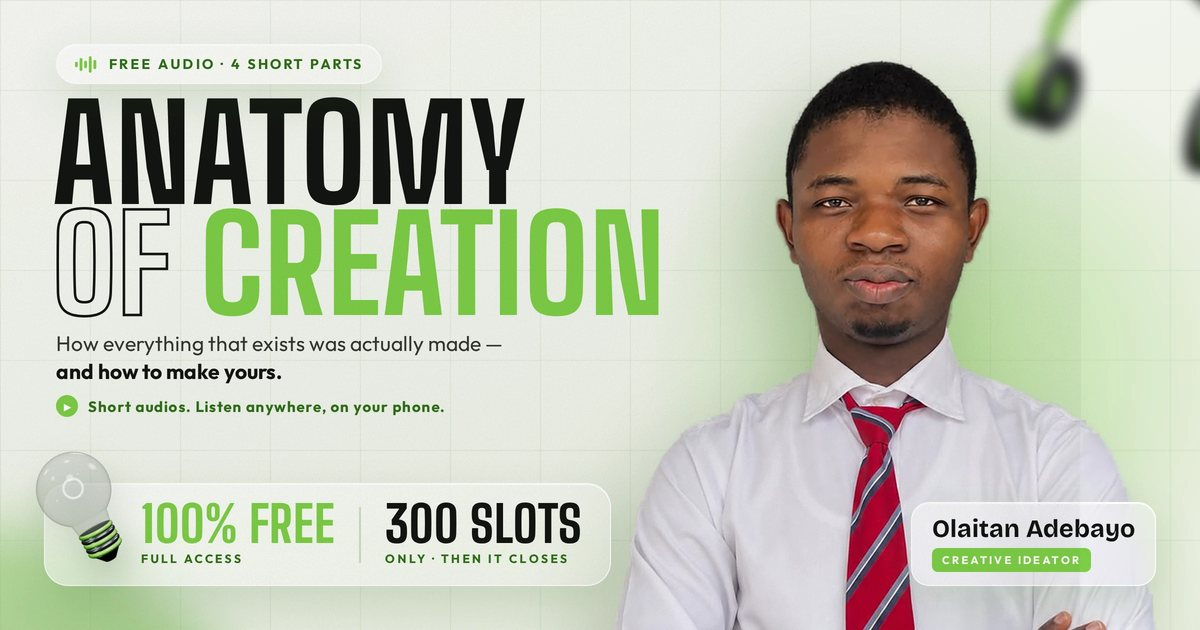
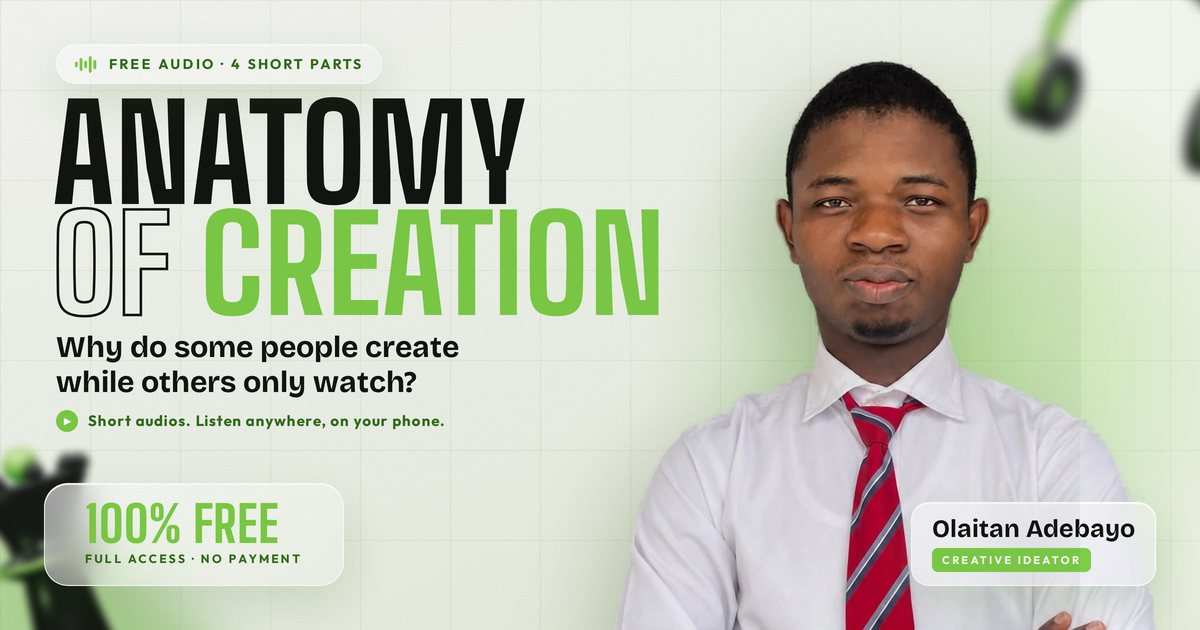
Anatomy of Creation: new flyer, 100 slots with stages, close/reopen sign-ups

diff --git a/components/AocCourse.jsx b/components/AocCourse.jsx
@@ -12,7 +12,14 @@ async function api(body) {
   const r = await fetch('/api/aoc', { method: 'POST', headers: { 'Content-Type': 'application/json' }, body: JSON.stringify(body) })
   const j = await r.json().catch(() => ({})); if (!r.ok) throw new Error(j.error || 'Something went wrong. Try again.'); return j
 }
-const playing = { el: null }                                            // one recording plays at a time
+const playing = { el: null }
+// the slots message for each stage (the count itself is never shown here)
+const SLOTS = {
+  open: (g) => ({ strong: `Only ${g} slots.`, rest: 'Get in before it closes.' }),
+  few: () => ({ strong: 'Join fast.', rest: 'Few spaces left.' }),
+  bonus: () => ({ strong: 'Bonus spots opened.', rest: 'Join while it’s open.' }),
+  closed: () => ({ strong: 'Sign-ups are closed for now.', rest: 'Message Olaitan to hear about the next one.' }),
+}                                            // one recording plays at a time
 const Mark = () => <span className="mk" aria-hidden="true"><span><b style={{ height: '40%' }} /><b style={{ height: '100%' }} /><b style={{ height: '65%' }} /><b style={{ height: '85%' }} /></span></span>
 
 function Player({ src, title, wave, onEvent }) {
@@ -59,6 +66,7 @@ export default function AocCourse({ data }) {
   const [name, setName] = useState(''), [tick, setTick] = useState(false), [busy, setBusy] = useState(false), [err, setErr] = useState('')
   const [fb, setFb] = useState(''), [sent, setSent] = useState(false), [fbErr, setFbErr] = useState(''), [partsOpen, setPartsOpen] = useState(false)
   const total = c.full && c.full.wave ? mins(c.full.wave.seconds) : 37
+  const stage = data.stage || 'open', slot = (SLOTS[stage] || SLOTS.open)(data.goal), closed = stage === 'closed'
 
   useEffect(() => {
     try { const s = JSON.parse(localStorage.getItem(KEY) || 'null'); if (s && s.token) setMe(s) } catch {}
@@ -108,8 +116,8 @@ export default function AocCourse({ data }) {
           {fbErr ? <p role="alert" className="err">{fbErr}</p> : null}
           <button type="submit" className="btn">Send</button></>}
       </form>
-    </div>) : data.closed ? (<div className="card acard">
-      <span className="eyebrow"><i />Slots</span><h3>All {data.goal} slots have been taken.</h3>
+    </div>) : closed ? (<div className="card acard">
+      <span className="eyebrow"><i />Sign-ups</span><h3>Sign-ups are closed for now.</h3>
       <p className="small left">Message Olaitan to hear first about the next free resource.</p>
       <a className="btn g wide" href="/me">Message Olaitan on WhatsApp</a>
     </div>) : (<form className="card acard" onSubmit={enter} aria-label="Get free access">
@@ -117,6 +125,7 @@ export default function AocCourse({ data }) {
       <label className="f">Your name<input type="text" value={name} onChange={(e) => setName(e.target.value)} required minLength={2} maxLength={60} autoComplete="name" placeholder="e.g. Ada Okafor" /></label>
       <label className="tick"><input type="checkbox" checked={tick} onChange={(e) => setTick(e.target.checked)} required /><span className="b" aria-hidden="true"><svg viewBox="0 0 16 16"><path d="M3 8.5l3.2 3L13 4.5" /></svg></span>After listening, I’ll share what I learned.</label>
       {err ? <p role="alert" className="err">{err}</p> : null}
+      {stage !== 'open' ? <p className={'urgent ' + stage}>{slot.strong} {slot.rest}</p> : null}
       <button type="submit" className="btn g wide" disabled={busy}>{busy ? 'Opening…' : 'Get access'}</button>
     </form>)
 
@@ -125,31 +134,35 @@ export default function AocCourse({ data }) {
     <header className="nav"><div className="wrap">
       <a className="brand" href="#top"><Mark />Anatomy of Creation</a>
       <nav className="links" aria-label="On this page"><a href="#get">What you’ll get</a><a href="#for">Who it’s for</a><a href="#about">About</a><a href="/">Main website ↗</a></nav>
-      <a className="btn" href="#access">{me ? 'Your course' : 'Get access'}</a>
+      <a className="btn" href="#access">{me ? 'Your course' : closed ? 'Next one' : 'Get access'}</a>
     </div></header>
 
     <main>
       <section className="hero"><div className="wrap">
-        <div>
-          <span className="eyebrow"><i />Free audio course · by Olaitan Adebayo</span>
-          <h1 className="title disp" aria-label={c.title}><span aria-hidden="true">ANATOMY</span><span aria-hidden="true"><span className="of">OF</span> <em>CREATION</em></span></h1>
-          <p className="lead"><b>{c.tagline} {c.taglineBold}</b></p>
-          <p className="sub2">{c.parts.length} short audios that show why some people create while others only watch, and how to step into creation yourself.</p>
-          <div className="proof"><span>🎧 100% free</span><span>⏱ {total} minutes</span><span>📱 Listen on your phone</span></div>
-          <div className="row"><a className="btn g" href="#access">{me ? 'Go to your course' : 'Get free access'}</a><a className="ghost" href="#get">What you’ll get ↓</a></div>
-          <p className="slots"><b>Only {data.goal} slots.</b> When it’s full, it closes.</p>
+        <h1 className="sr">{c.title}: {c.tagline} {c.taglineBold}</h1>
+        <div className="herogrid">
+          <picture className="card-img">
+            <source media="(min-width: 700px)" srcSet="/aoc/card-1600.webp" />
+            <img src="/aoc/card-900.webp" width="1600" height="840" alt="Anatomy of Creation, a free audio in 4 short parts by Olaitan Adebayo, creative ideator. 100% free, full access, no payment." fetchPriority="high" />
+          </picture>
+          <div className="hero-text">
+            <p className="lead">{c.tagline} <b>{c.taglineBold}</b></p>
+            <p className="sub2"><b>{c.title}</b> is a free audio in {c.parts.length} short parts that answers that question, and shows you how to step into creation yourself.</p>
+            <div className="proof"><span>🎧 100% free · no payment</span><span>⏱ {total} minutes</span><span>📱 Listen on your phone</span></div>
+          </div>
+          <div className="cta-box">
+            <p className="ctah">{me ? 'Your course is ready.' : closed ? 'Sign-ups are paused.' : 'Free access, today.'}</p>
+            <a className="btn g wide0" href="#access">{me ? 'Go to your course' : closed ? 'Hear about the next one' : 'Get free access'}</a>
+            <p className={'slots ' + stage}><b>{slot.strong}</b> {slot.rest}</p>
+            <a className="ghost" href="#get">What you’ll get ↓</a>
+          </div>
         </div>
-        <div className="photo"><img src="/aoc/photo.webp" alt="Olaitan Adebayo" width="1220" height="995" fetchPriority="high" /><div className="tag"><b>Olaitan Adebayo</b><span>CREATIVE IDEATOR</span></div></div>
-      </div></section>
-
-      <section className="look rv"><div className="wrap">
-        <p className="disp">Look around you.</p>
-        <p className="body">Everything you see was made by someone. Someone <b>noticed, thought, built,</b> and put it into the world.</p>
       </div></section>
 
       <section className="q"><div className="wrap rv">
-        <p className="disp">So why do some people <em>create</em>, while others only watch?</p>
-        <p className="after"><b>{c.title}</b> is a free audio in {c.parts.length} short parts that answers that question, and shows you how to step into creation yourself.</p>
+        <p className="disp">Look around <em>you.</em></p>
+        <p className="after">Everything you see was made by someone. Someone <b>noticed, thought, built,</b> and put it into the world.</p>
+        <p className="after">So why do some create, while others only watch? <b>{c.title}</b> answers that, and shows you how to step into creation yourself.</p>
       </div></section>
 
       <section className="s"><div className="wrap rv">
@@ -160,7 +173,7 @@ export default function AocCourse({ data }) {
 
       <section className="s" id="get" style={{ paddingTop: 0 }}><div className="wrap">
         <div className="rv"><span className="eyebrow"><i />What you’ll get</span><h2 className="disp">What you’ll walk away with</h2></div>
-        <ul className="gets">{(c.learn || []).map((t, i) => <li key={t} className="rv"><span className="n">{String(i + 1).padStart(2, '0')}</span><h3>{t}</h3></li>)}</ul>
+        <ul className="gets">{(c.learn || []).map((t, i) => <li key={t} className="rv"><span className="n">{String(i).padStart(2, '0')}</span><h3>{t}</h3></li>)}</ul>
       </div></section>
 
       <section className="s for" id="for"><div className="wrap rv">
@@ -171,17 +184,17 @@ export default function AocCourse({ data }) {
 
       <section className="s access" id="access"><div className="wrap">
         <div><span className="eyebrow"><i />Get access</span><h2 className="disp">Free. On your phone.</h2>
-          <div className="facts"><div><span className="e">🎧</span>100% free. Listen on your phone.</div><div><span className="e">⏳</span>Only {data.goal} slots. When it’s full, it closes.</div><div><span className="e">⬇</span>Download once, listen offline.</div></div></div>
+          <div className="facts"><div><span className="e">🎧</span>100% free. No payment. Listen on your phone.</div><div className={'stage ' + stage}><span className="e">⏳</span><span><b>{slot.strong}</b> {slot.rest}</span></div><div><span className="e">⬇</span>Download once, listen offline.</div></div></div>
         {accessCard}
       </div></section>
 
       <section className="s about" id="about" style={{ paddingTop: 0 }}><div className="wrap rv">
-        <div className="av"><img src="/aoc/photo.webp" alt="" width="1220" height="995" loading="lazy" /></div>
+        <div className="av"><img src="/aoc/avatar.webp" alt="" width="360" height="360" loading="lazy" /></div>
         <div><span className="eyebrow"><i />From Olaitan</span><h2 className="disp">Hi, I’m Olaitan Adebayo.</h2>
           <p>A creative ideator, builder and web developer. I read widely, think slowly and ship quickly. I made this audio for anyone who’s tired of only watching, and ready to make something real.</p></div>
       </div></section>
 
-      <section className="final"><div className="wrap rv"><p className="disp">Stop only watching. <em>Start creating.</em></p><a className="btn g" href="#access">{me ? 'Go to your course' : 'Get free access'}</a></div></section>
+      <section className="final"><div className="wrap rv"><p className="disp">Stop only watching. <em>Start creating.</em></p>{!me && !closed && stage !== 'open' ? <p className="fstage">{slot.strong} {slot.rest}</p> : null}<a className="btn g" href="#access">{me ? 'Go to your course' : closed ? 'Hear about the next one' : 'Get free access'}</a></div></section>
     </main>
 
     <footer className="foot"><div className="wrap">
@@ -210,22 +223,25 @@ html{scroll-behavior:smooth}html,body{background:#F1F3EE!important;color-scheme:
 .aoc .links{display:flex;gap:22px;margin-left:auto;font-weight:700;font-size:15px;color:var(--dim)}.aoc .links a{text-decoration:none}.aoc .links a:hover{color:var(--ink)}
 .aoc .nav .btn{padding:11px 18px;font-size:14px;white-space:nowrap}.aoc .brand{white-space:nowrap}@media(max-width:860px){.aoc .links{display:none}.aoc .nav .btn{margin-left:auto}}
 @media(max-width:420px){.aoc .nav .wrap{gap:12px}.aoc .brand{font-size:15px;gap:8px}.aoc .mk{width:26px;height:26px}.aoc .nav .btn{padding:10px 14px;font-size:13.5px}}
-/* hero */
-.aoc .hero{padding:clamp(28px,6vw,44px) 0 clamp(36px,6vw,70px)}.aoc .hero .wrap{display:grid;gap:30px;align-items:center}
-.aoc .title{font-size:clamp(58px,15.5vw,96px);margin:14px 0 0;line-height:.86}.aoc .title>span{display:block}.aoc .title em{font-style:normal;color:var(--green)}.aoc .title .of{color:transparent;-webkit-text-stroke:2px var(--ink)}
-.aoc .lead{font-size:clamp(20px,2.5vw,26px);line-height:1.3;max-width:28ch;margin:20px 0 0}.aoc .sub2{font-size:clamp(16px,1.9vw,18px);color:var(--dim);max-width:44ch;margin:12px 0 0}
-.aoc .proof{display:flex;flex-wrap:wrap;gap:8px;margin-top:20px}.aoc .proof span{padding:9px 14px;border-radius:999px;background:#fff;border:1px solid var(--line);font-weight:700;font-size:14.5px}
-.aoc .row{display:flex;flex-wrap:wrap;gap:14px;align-items:center;margin-top:26px}.aoc .ghost{font-weight:800;text-decoration:none;color:var(--deep);padding:12px 6px}
-.aoc .slots{margin:16px 0 0;font-size:15px;color:var(--dim)}.aoc .slots b{color:var(--ink)}
-.aoc .photo{position:relative;justify-self:center;width:min(100%,420px);aspect-ratio:1/1.05;border-radius:32px;background:radial-gradient(closest-side at 55% 55%,#bfe3a5,#dfeed4 70%,#e9f1e2);overflow:hidden}
-.aoc .photo img{position:absolute;bottom:0;left:50%;transform:translateX(-50%);width:108%;height:auto}
-.aoc .photo .tag{position:absolute;left:16px;bottom:16px;padding:12px 16px;border-radius:16px;background:#fff;box-shadow:0 14px 30px -18px rgba(18,21,16,.45)}.aoc .photo .tag b{display:block;font-size:17px}.aoc .photo .tag span{font-size:12.5px;font-weight:800;letter-spacing:.16em;color:var(--deep)}
-@media(min-width:900px){.aoc .hero .wrap{grid-template-columns:1.3fr .7fr}.aoc .title{font-size:clamp(76px,7.4vw,106px);white-space:nowrap}.aoc .photo{width:min(100%,400px)}}
-@media(max-width:520px){.aoc .hero .eyebrow{font-size:11px;letter-spacing:.14em}}
+/* hero: the landing card, then the opening */
+.aoc .sr{position:absolute;width:1px;height:1px;overflow:hidden;clip:rect(0 0 0 0);white-space:nowrap}
+.aoc .hero{padding:clamp(16px,3vw,28px) 0 clamp(36px,6vw,64px)}
+.aoc .card-img{display:block}.aoc .card-img img{display:block;width:100%;height:auto;border-radius:clamp(18px,2.6vw,30px);border:1px solid rgba(255,255,255,.9);box-shadow:0 30px 60px -38px rgba(18,21,16,.5);background:#e9efe3}
+.aoc .herogrid{display:grid;gap:clamp(20px,3vw,28px);grid-template-areas:"card" "text" "cta"}
+.aoc .card-img{grid-area:card}.aoc .hero-text{grid-area:text}.aoc .cta-box{grid-area:cta}
+@media(min-width:900px){.aoc .herogrid{grid-template-columns:minmax(0,1.6fr) minmax(280px,.72fr);grid-template-areas:"card cta" "text text";align-items:center;column-gap:28px}.aoc .hero-text{display:grid;grid-template-columns:1.1fr .9fr;gap:8px 40px;align-items:end}.aoc .hero-text .proof{grid-column:1/-1}.aoc .hero-text .sub2{margin:0}}
+.aoc .ctah{font-family:var(--font-hubot),system-ui;font-stretch:78%;font-weight:900;font-size:clamp(26px,2.6vw,32px);line-height:1;text-align:center}
+.aoc .lead{font-family:var(--font-hubot),system-ui;font-stretch:78%;font-weight:900;font-size:clamp(32px,5vw,52px);line-height:1;letter-spacing:-.01em}.aoc .lead b{color:var(--green);font-weight:900}
+.aoc .sub2{font-size:clamp(16px,1.9vw,19px);color:var(--dim);max-width:52ch;margin:14px 0 0}.aoc .sub2 b{color:var(--ink)}
+.aoc .proof{display:flex;flex-wrap:wrap;gap:8px;margin-top:18px}.aoc .proof span{padding:9px 14px;border-radius:999px;background:#fff;border:1px solid var(--line);font-weight:700;font-size:14.5px}
+.aoc .cta-box{display:grid;gap:12px;padding:clamp(18px,3vw,24px);border-radius:24px;background:#fff;border:1px solid var(--line);box-shadow:0 24px 50px -36px rgba(18,21,16,.45)}
+.aoc .wide0{width:100%;padding:18px}.aoc .ghost{justify-self:center;font-weight:800;text-decoration:none;color:var(--deep);padding:4px 6px}
+.aoc .slots{text-align:center;font-size:15.5px;color:var(--dim)}.aoc .slots b{color:var(--ink)}
+.aoc .slots.few b,.aoc .slots.bonus b{color:#B54708}.aoc .urgent{margin-top:16px;padding:12px 14px;border-radius:14px;background:#FFF4E5;color:#7A3E00;font-weight:700;font-size:15px}
+.aoc .facts .stage.few,.aoc .facts .stage.bonus{background:#FFF8EE;border-color:#F7D9AE}.aoc .fstage{margin-top:18px;color:#FFD08A;font-weight:700;font-size:17px}
 /* story */
-.aoc .look{padding:clamp(56px,8vw,96px) 0 0}.aoc .look p.disp{font-size:clamp(48px,8vw,96px)}.aoc .look .body{font-size:clamp(19px,2.4vw,24px);max-width:34ch;margin:16px 0 0;color:#2b3027}.aoc .look .body b{color:var(--ink)}
-.aoc .q{margin-top:clamp(44px,6vw,70px);background:var(--ink);color:#fff;padding:clamp(56px,9vw,110px) 0}.aoc .q p.disp{font-size:clamp(40px,7vw,84px);max-width:16ch}.aoc .q em{font-style:normal;color:var(--green)}
-.aoc .q .after{margin-top:26px;max-width:46ch;font-size:clamp(17px,2.2vw,20px);color:rgba(255,255,255,.78)}.aoc .q .after b{color:#fff}
+.aoc .q{background:var(--ink);color:#fff;padding:clamp(56px,9vw,110px) 0}.aoc .q p.disp{font-size:clamp(40px,7vw,84px);max-width:16ch}.aoc .q em{font-style:normal;color:var(--green)}
+.aoc .q .after{margin-top:22px;max-width:46ch;font-size:clamp(17px,2.2vw,20px);color:rgba(255,255,255,.78)}.aoc .q .after b{color:#fff}
 .aoc section.s{padding:clamp(56px,8vw,96px) 0}.aoc .s h2{font-size:clamp(40px,6vw,64px);margin:14px 0 0}.aoc .s .intro{font-size:18px;color:var(--dim);max-width:52ch;margin:14px 0 0}
 .aoc .parts{display:grid;gap:12px;margin-top:30px;grid-template-columns:repeat(2,1fr)}@media(min-width:760px){.aoc .parts{grid-template-columns:repeat(4,1fr)}}
 .aoc .parts div{padding:18px;border-radius:20px;background:var(--card);border:1px solid var(--line)}.aoc .parts b{display:block;font-family:var(--font-hubot),system-ui;font-stretch:78%;font-weight:900;font-size:30px}.aoc .parts span{font-size:14px;color:var(--dim)}

diff --git a/lib/site/aoc.js b/lib/site/aoc.js
@@ -11,9 +11,9 @@ const refresh = () => { try { revalidatePath('/aoc') } catch {} }   // the page 
 export class AocError extends Error {}
 const clean = (s, n) => String(s ?? '').replace(/<[^>]*>/g, '').replace(/[\u0000-\u001F\u007F<>]/g, '').replace(/\s+/g, ' ').trim().slice(0, n)
 export const DEFAULT_CONTENT = {
-  title: 'Anatomy of Creation', tagline: 'How everything that exists was actually made,', taglineBold: 'and how to make yours.',
+  title: 'Anatomy of Creation', tagline: 'Why do some people create', taglineBold: 'while others only watch?',
   intro: 'Short audios. Listen anywhere, on your phone.',
-  learn: ['The hidden strategy of creation: why some people create while others only watch', 'How to spot the ideas around you that are worth creating', 'How to start creating, even when you don’t feel ready', 'How to give your idea a body and turn it into a real creation', 'How to keep your creation alive and grow as a creator'],
+  learn: ['The hidden strategy behind every creation', 'How to spot ideas worth creating', 'How to start, even when you don’t feel ready', 'How to turn your idea into a real creation', 'How to keep your creation alive'],
   parts: [
     { key: 'part1', title: 'Part 1', covers: '00 · Why you were never meant to be a user\n01 · The Eye: where every creation begins', file: '/aoc/anatomy-of-creation-part-1.m4a' },
     { key: 'part2', title: 'Part 2', covers: '02 · The Question you can’t leave alone', file: '/aoc/anatomy-of-creation-part-2.m4a' },
@@ -37,27 +37,31 @@ export async function saveLink({ phone, message }) {
 }
 
 // ---------- the course ----------
-async function settings() { const s = await one('select goal, content, close_when_full from aoc_settings where id = 1'); return { goal: s ? s.goal : 300, close: s ? s.close_when_full : true, content: s && s.content && s.content.parts ? s.content : DEFAULT_CONTENT } }
+async function settings() { const s = await one('select goal, content, accepting from aoc_settings where id = 1'); return { goal: s ? s.goal : 100, accepting: s ? s.accepting : true, content: s && s.content && s.content.parts ? s.content : DEFAULT_CONTENT } }
+// What the page says about slots: "Only 100 slots" → from 60 joins (60%) "Join fast. Few spaces left." → after 100 "Bonus spots opened".
+// It never closes by itself; only the admin's Close sign-ups switch closes it.
+export const fewFrom = (goal) => Math.max(1, Math.round(goal * 0.6))
+export function slotStage(joined, goal, accepting) { return !accepting ? 'closed' : joined >= goal ? 'bonus' : joined >= fewFrom(goal) ? 'few' : 'open' }
 export async function publicCourse() {             // the course, and whether it's closed; the count itself is shown only in the admin
   let s, n
   try { s = await settings(); n = await one('select count(*)::int n from aoc_listeners') }
-  catch (e) { console.error('aoc page data', e.message); s = { content: DEFAULT_CONTENT, goal: 300, close: true }; n = { n: 0 } }   // never a broken page
+  catch (e) { console.error('aoc page data', e.message); s = { content: DEFAULT_CONTENT, goal: 100, accepting: true }; n = { n: 0 } }   // never a broken page
   const wave = (f) => AOC_WAVES[f] || null                                       // the player draws the real waveform when it's known
   const content = { ...s.content, parts: s.content.parts.map((p) => ({ ...p, wave: wave(p.file) })), full: s.content.full ? { ...s.content.full, wave: wave(s.content.full.file) } : null }
-  return { content, closed: s.close && n.n >= s.goal, goal: s.goal }
+  return { content, stage: slotStage(n.n, s.goal, s.accepting), goal: s.goal }
 }
 export async function join({ name, consent }, ip) {
   const nm = clean(name, 60)
   if (nm.length < 2) throw new AocError('Please enter your name.')
   if (consent !== true) throw new AocError('Please tick the box to continue.')
   const s = await settings(), n = await one('select count(*)::int n from aoc_listeners')
-  if (s.close && n.n >= s.goal) throw new AocError(`All ${s.goal} slots have been taken.`)
+  if (!s.accepting) throw new AocError('Sign-ups are closed for now. Message Olaitan to hear about the next one.')
   const ipHash = createHash('sha256').update('aoc:' + ip + ':' + (process.env.AUTH_SECRET || '')).digest('hex')
   const r = await one("select count(*) filter (where created_at > now() - interval '1 hour')::int h from aoc_listeners where ip_hash = $1", [ipHash])
   if (r && r.h >= 20) throw new AocError('Too many sign-ups from this connection. Try again in an hour.')
   const token = randomBytes(18).toString('base64url')
   await q('insert into aoc_listeners (token, name, ip_hash) values ($1, $2, $3)', [token, nm, ipHash])
-  if (s.close && n.n + 1 >= s.goal) refresh()                                   // that was the last slot: the page shows "closed" now
+  if (n.n + 1 === fewFrom(s.goal) || n.n + 1 === s.goal) refresh()            // the slots message changes now (few spaces left / bonus spots)
   return { token, name: nm }
 }
 export async function track({ token, part, event }) {
@@ -82,7 +86,7 @@ export async function adminData() {
   const link = await one("select phone, message, clicks, updated_at from site_links where slug = 'me'")
   const days = (await q("select to_char(day, 'YYYY-MM-DD') as day, n from site_link_clicks where slug = 'me' and day > (now() at time zone 'Africa/Lagos')::date - 14 order by day")).rows
   const people = (await q('select id, name, progress, feedback, feedback_at, created_at, last_seen from aoc_listeners order by created_at desc limit 1000')).rows
-  return { link, days, goal: s.goal, close: s.close, content: s.content, people: people.map((p) => ({ ...p, created_at: p.created_at.toISOString(), last_seen: p.last_seen.toISOString(), feedback_at: p.feedback_at && p.feedback_at.toISOString() })) }
+  return { link, days, goal: s.goal, accepting: s.accepting, fewFrom: fewFrom(s.goal), content: s.content, people: people.map((p) => ({ ...p, created_at: p.created_at.toISOString(), last_seen: p.last_seen.toISOString(), feedback_at: p.feedback_at && p.feedback_at.toISOString() })) }
 }
 export async function saveContent(c) {
   const parts = (Array.isArray(c.parts) ? c.parts : []).slice(0, 20).map((p, i) => ({ key: clean(p.key, 20).replace(/[^a-z0-9-]/gi, '') || 'p' + i, title: clean(p.title, 90), file: clean(p.file, 300),
@@ -95,8 +99,11 @@ export async function saveContent(c) {
   const content = { title: clean(c.title, 80) || 'Anatomy of Creation', tagline: clean(c.tagline, 140), taglineBold: clean(c.taglineBold, 80), intro: clean(c.intro, 300), learn, parts,
     full: c.full && clean(c.full.file, 300) ? { title: clean(c.full.title, 80) || 'Full course', file: clean(c.full.file, 300), note: clean(c.full.note, 120) } : null,
     map: c.map && clean(c.map.file, 300) ? { title: clean(c.map.title, 80) || 'Download', file: clean(c.map.file, 300) } : null }
-  const goal = Math.max(1, Math.min(100000, Number(c.goal) || 300))
-  await q('update aoc_settings set content = $1, goal = $2, close_when_full = $3 where id = 1', [JSON.stringify(content), goal, c.close !== false])
+  const goal = Math.max(1, Math.min(100000, Number(c.goal) || 100))
+  await q('update aoc_settings set content = $1, goal = $2 where id = 1', [JSON.stringify(content), goal])
   refresh(); return { ok: true }
+}
+export async function setAccepting(on) {
+  await q('update aoc_settings set accepting = $1 where id = 1', [on === true]); refresh(); return { accepting: on === true }
 }
 export async function removeListener(id) { await q('delete from aoc_listeners where id = $1', [Number(id)]); refresh(); return { ok: true } }

diff --git a/components/admin/AdminAoc.jsx b/components/admin/AdminAoc.jsx
@@ -13,7 +13,7 @@ const when = (d) => new Date(d).toLocaleString('en-GB', { day: 'numeric', month:
 export default function AdminAoc({ data }) {
   const router = useRouter(), [busy, setBusy] = useState(''), [err, setErr] = useState('')
   const [phone, setPhone] = useState(data.link ? data.link.phone : ''), [msg, setMsg] = useState(data.link ? data.link.message : '')
-  const [c, setC] = useState({ ...data.content, goal: data.goal, close: data.close, learn: (data.content.learn || []).join('\n') }), [show, setShow] = useState(null)
+  const [c, setC] = useState({ ...data.content, goal: data.goal, learn: (data.content.learn || []).join('\n') }), [show, setShow] = useState(null)
   async function call(body, ok) {
     setBusy(body.action); setErr('')
     try {
@@ -57,6 +57,12 @@ export default function AdminAoc({ data }) {
         <div style={{ display: 'flex', gap: 8 }}><button className="btn btn-line" onClick={() => { navigator.clipboard.writeText('https://olexweb.com/aoc'); toast('Course link copied.') }}>Copy course link</button>
           {people.length ? <button className="btn btn-line" onClick={csv}>Export (CSV)</button> : null}</div>
       </div>
+      {(() => { const n = people.length, st = !data.accepting ? 'closed' : n >= data.goal ? 'bonus' : n >= data.fewFrom ? 'few' : 'open'
+        const say = { open: `“Only ${data.goal} slots. Get in before it closes.”`, few: '“Join fast. Few spaces left.”', bonus: '“Bonus spots opened. Join while it’s open.”', closed: '“Sign-ups are closed for now.”' }[st]
+        return <div style={{ display: 'flex', gap: 12, alignItems: 'center', flexWrap: 'wrap', margin: '14px 0 0', padding: 14, borderRadius: 16, border: '1px solid var(--line)', background: st === 'closed' ? 'rgba(255,120,120,.08)' : st === 'open' ? 'transparent' : 'rgba(255,190,90,.08)' }}>
+          <span style={{ fontSize: 14.5 }}>Visitors see: <b>{say}</b></span>
+          <button className={data.accepting ? 'btn btn-line' : 'btn btn-green'} style={{ marginLeft: 'auto' }} disabled={!!busy} onClick={() => { if (!data.accepting || window.confirm('Close sign-ups? New visitors will see “Sign-ups are closed for now”. People who joined keep their access.')) call({ action: 'accepting', on: !data.accepting }, data.accepting ? 'Sign-ups closed.' : 'Sign-ups reopened.') }}>{busy === 'accepting' ? 'Saving…' : data.accepting ? 'Close sign-ups' : 'Reopen sign-ups'}</button>
+        </div> })()}
       <div style={{ display: 'grid', gridTemplateColumns: 'repeat(auto-fit, minmax(150px, 1fr))', gap: 10, margin: '14px 0' }}>
         {[['Joined', `${people.length} of ${data.goal}`], ['Finished all', finished], ['Shared what they learned', people.filter((p) => p.feedback).length]].map(([k, v]) => <div key={k} style={{ padding: 14, borderRadius: 16, border: '1px solid var(--line)' }}><div style={{ fontSize: 13, ...dim }}>{k}</div><b className="d" style={{ fontSize: 28 }}>{v}</b></div>)}
       </div>
@@ -82,7 +88,7 @@ export default function AdminAoc({ data }) {
         <label style={{ display: 'grid', gap: 6, fontSize: 14 }}>What you’ll get (one per line; numbered 00, 01… on the page)<textarea className="input" rows={5} value={c.learn} onChange={(e) => setC({ ...c, learn: e.target.value })} /></label>
         <div style={{ display: 'flex', gap: 16, alignItems: 'center', flexWrap: 'wrap' }}>
           <label style={{ display: 'grid', gap: 6, fontSize: 14, maxWidth: 200 }}>Slots<input className="input" type="number" min={1} value={c.goal} onChange={(e) => setC({ ...c, goal: e.target.value })} /></label>
-          <label style={{ display: 'flex', gap: 8, alignItems: 'center', fontSize: 14 }}><input type="checkbox" checked={c.close !== false} onChange={(e) => setC({ ...c, close: e.target.checked })} style={{ width: 18, height: 18, accentColor: 'var(--green)' }} />Close when the slots are full (the flyer says “then it closes”)</label>
+          <span style={{ fontSize: 13.5, ...dim }}>“Few spaces left” shows from {Math.max(1, Math.round((Number(c.goal) || 100) * 0.6))} joins; “Bonus spots opened” after {Number(c.goal) || 100}. It never closes by itself.</span>
         </div>
         <b style={{ fontSize: 14, marginTop: 6 }}>Recordings, in order</b>
         {parts.map((p, i) => <div key={i} style={{ display: 'grid', gap: 8, padding: 12, borderRadius: 14, border: '1px solid var(--line)' }}>

diff --git a/app/admin/api/aoc/route.js b/app/admin/api/aoc/route.js
@@ -2,7 +2,7 @@
 import { currentUser, sameOrigin, ownerOnly } from '@/lib/admin/auth'
 import { respond, refuse, readJson } from '@/lib/admin/respond'
 import { Refused } from '@/lib/admin/content'
-import { saveLink, saveContent, removeListener, AocError } from '@/lib/site/aoc'
+import { saveLink, saveContent, removeListener, setAccepting, AocError } from '@/lib/site/aoc'
 export const dynamic = 'force-dynamic'
 export async function POST(request) {
   if (!sameOrigin(request)) return refuse('Request refused.', 403)
@@ -13,6 +13,7 @@ export async function POST(request) {
     try {
       if (b.action === 'save-link') return await saveLink(b)
       if (b.action === 'save-content') return await saveContent(b.content || {})
+      if (b.action === 'accepting') return await setAccepting(b.on)
       if (b.action === 'remove') { if (!Number.isInteger(b.id)) throw new AocError('Request refused.'); return await removeListener(b.id) }
       throw new AocError('Unknown action.')
     } catch (e) { if (e instanceof AocError) throw new Refused(e.message); throw e }

diff --git a/CONTINUE.md b/CONTINUE.md
@@ -124,7 +124,10 @@ Last updated: 24 October 2026.
   `olexweb.com/aoc`: name + "After listening, I'll share what I learned" tick, then every recording with play and
   download (nothing locked, by his choice), plus the Creation Map and "What did you learn?". Admin shows joined
   "x of 300", what each person played, downloaded or finished, their feedback, CSV export, editable content.
-  Landing page rebuilt from his own copy (approved as a full-page preview first): opening states the offer (title, promise, free · 37 min · phone, Get free access, only 300 slots), then "Look around you" story, the question, the 4 parts, 5 points, who it's for, access card (name + tick → course with full-course download, waveform player, part by part, feedback), about, final call; its own header ("Main website ↗") and footer (one olexweb.com link). Visible by default (fade-up only below the fold, 2.5 s safety net); pre-built, refreshed every minute and at once when full or edited. Tests: fH.mjs (37), vis.mjs (30 on-screen checks, phone + laptop), perf.mjs. LESSON: always test that key parts are visible on screen, and show a preview before coding. Main button: the full course as one MP3; "Or part by part" below. Styled after his flyer (AOC-Flyer-Final.png; the landing card is the hero). Audio (AAC 64k, levelled, from transcripts: Part 1 = lessons 00+01, Parts 2–4 = 02, 03, 04): `public/aoc/anatomy-of-creation-part-1..4.m4a` + `anatomy-of-creation-full-course.m4a`. "Close when the slots are full" switch (default on, as the flyer promises). (from his WhatsApp recordings, levelled to −16 LUFS, 96k MP3). The count shows only in the admin. Files: `lib/site/aoc.js`, `app/me`, `app/aoc`, `components/AocCourse.jsx`,
+  Landing page rebuilt from his own copy (approved as a full-page preview first): opening states the offer (title, promise, free · 37 min · phone, Get free access, only 300 slots), then "Look around you" story, the question, the 4 parts, 5 points, who it's for, access card (name + tick → course with full-course download, waveform player, part by part, feedback), about, final call; its own header ("Main website ↗") and footer (one olexweb.com link). Visible by default (fade-up only below the fold, 2.5 s safety net); pre-built, refreshed every minute and at once when full or edited. Tests: fH.mjs (37), vis.mjs (30 on-screen checks, phone + laptop), perf.mjs. LESSON: always test that key parts are visible on screen, and show a preview before coding.
+  UPDATE (new flyer): hero = the new landing card (public/aoc/card-*.webp) with the access box beside it on laptops; line "Why do some people create while others only watch?"; 00–04 points from the flyer; 100 slots (flyer v4): "Only 100 slots" → from 60 joins (60%) "Join fast. Few spaces left." → after 100 "Bonus spots opened"; never closes by itself; admin Close/Reopen sign-ups. One-time DB update (flyer_version 3) set goal 100 and cleared old saved content.
+- **Domain:** olexweb.com moved from TrustName (de-accredited by ICANN; bulk-moved to Atak Domain) to Spaceship; DNS stays on Cloudflare (kiki/nick); registered until 22 May 2028 after transfer. DNSSEC off.
+- **WhatsApp automation (planned):** keyword auto-replies on his existing number need coexistence → he wants to become a Meta Tech Provider (business verification; he may only have a SMEDAN certificate; CAC business name registration is the reliable fallback). Free up to 1,000 service replies/month (Meta pricing from Oct 2026). Meanwhile: Business app greeting message + /aoc quick reply. Main button: the full course as one MP3; "Or part by part" below. Styled after his flyer (AOC-Flyer-Final.png; the landing card is the hero). Audio (AAC 64k, levelled, from transcripts: Part 1 = lessons 00+01, Parts 2–4 = 02, 03, 04): `public/aoc/anatomy-of-creation-part-1..4.m4a` + `anatomy-of-creation-full-course.m4a`. "Close when the slots are full" switch (default on, as the flyer promises). (from his WhatsApp recordings, levelled to −16 LUFS, 96k MP3). The count shows only in the admin. Files: `lib/site/aoc.js`, `app/me`, `app/aoc`, `components/AocCourse.jsx`,
   `components/admin/AdminAoc.jsx`. The site anthem is silenced on /aoc.
 
 ## 7. Next steps, in order
